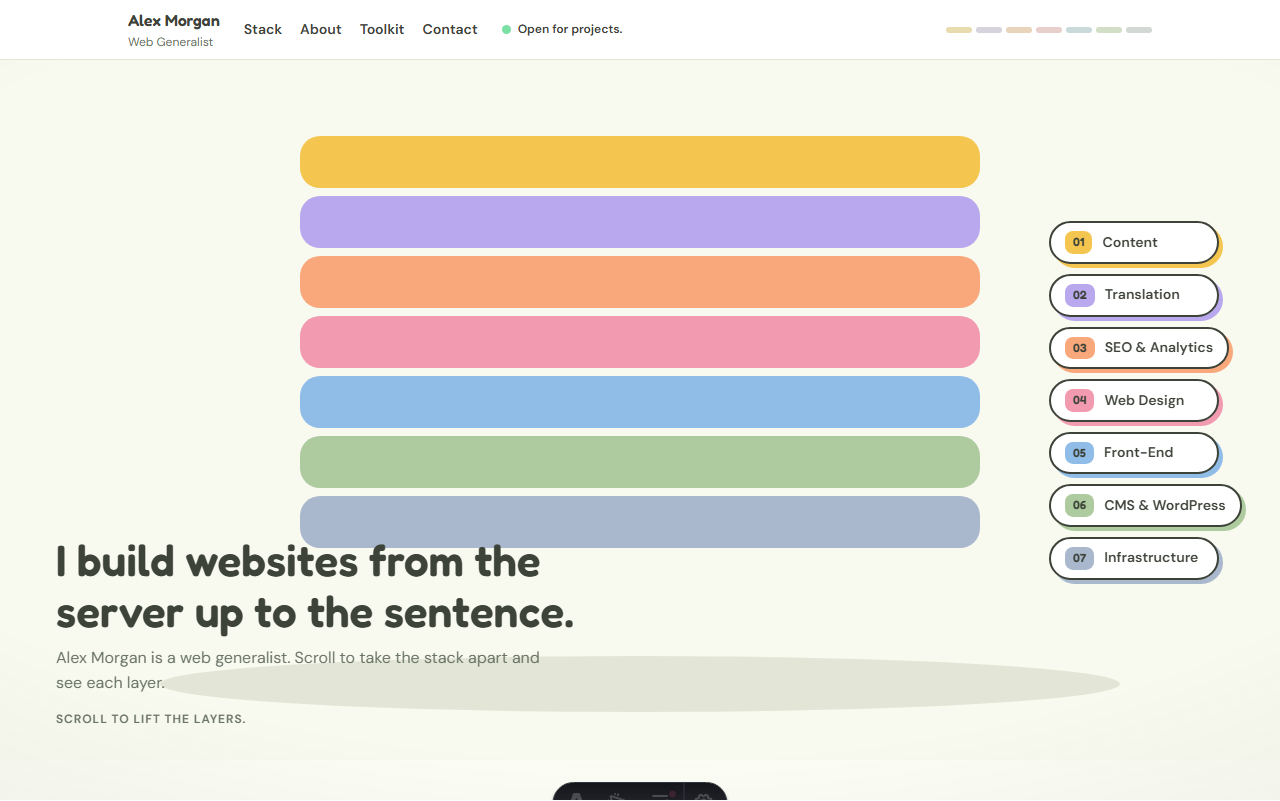
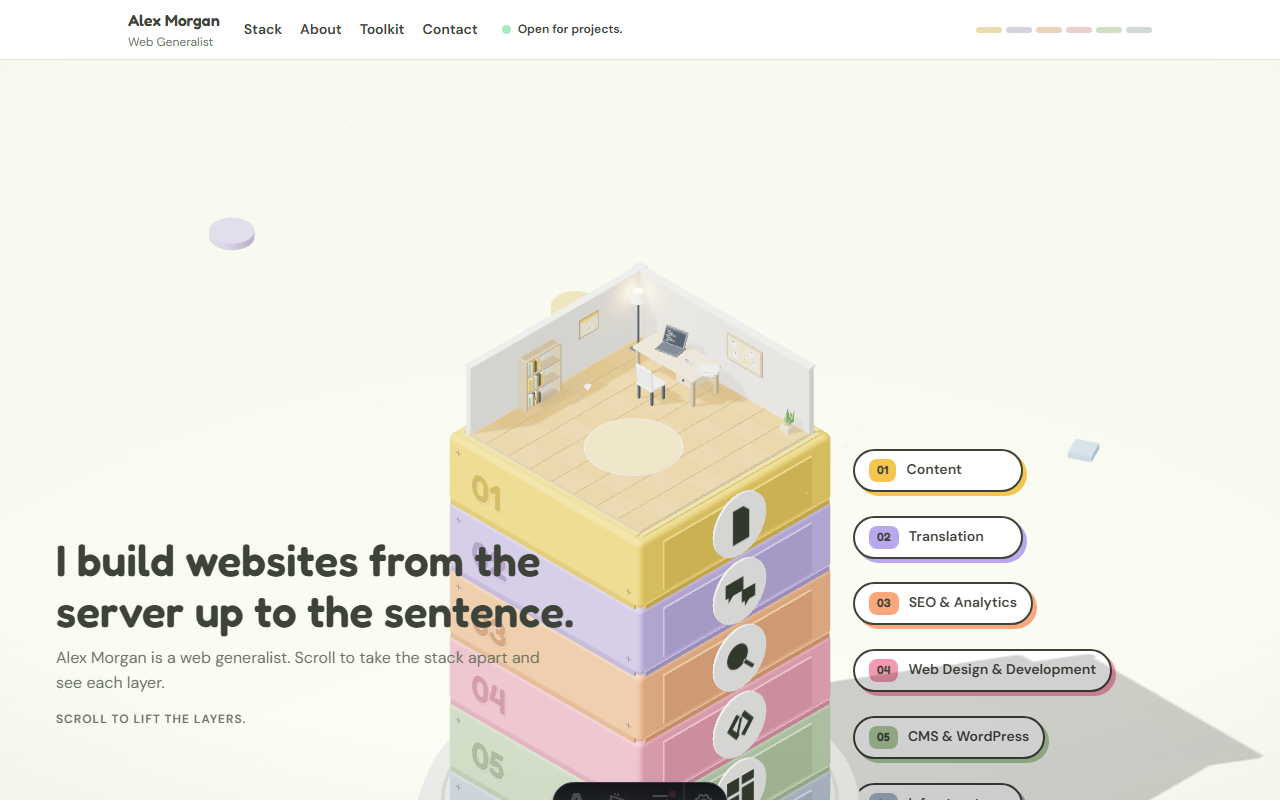
T16: complete six-layer migration (redirects, derived verify-stack, poster)

diff --git a/src/scene/stack/stack.ts b/src/scene/stack/stack.ts
@@ -1,4 +1,4 @@
-/** @module scene/stack/stack: builds the seven-slab column from config in locked order. @see src/scene/stack/slab.ts, src/scene/rooms/index.ts, docs/MOTION.md (State) */
+/** @module scene/stack/stack: builds the six-slab column from config in locked order. @see src/scene/stack/slab.ts, src/scene/rooms/index.ts, docs/MOTION.md (State) */
 import * as THREE from 'three';
 import { SLAB_T, FOOTPRINT, WALL_H } from '@/config/tuning';
 import { LAYERS } from '@/config/layers';

diff --git a/src/config/layers.ts b/src/config/layers.ts
@@ -1,4 +1,4 @@
-/** @module config/layers: the seven layer configs in locked top-to-bottom order. @see docs/COPY.md, src/config/types.ts */
+/** @module config/layers: the six layer configs in locked top-to-bottom order. @see docs/COPY.md, src/config/types.ts */
 import type { LayerConfig } from './types';
 
 // The order lives only here (locked decision): content, translation, seo,

diff --git a/src/content/en.ts b/src/content/en.ts
@@ -48,7 +48,7 @@ export const en = {
     close: 'Close',
   },
   footer: {
-    note: 'Built as one page and seven layers.',
+    note: 'Built as one page and six layers.',
   },
 } as const;
 

diff --git a/docs/MAP.md b/docs/MAP.md
@@ -6,7 +6,7 @@ Search this file before creating anything.
 - main.ts: main: page entry; boots the scene, then wires the UI layer to it. @see src/scene/boot.ts, src/ui/preview.ts, src/ui/detail.ts, src/ui/keyboard.ts
 
 ## src/config/
-- layers.ts: config/layers: the seven layer configs in locked top-to-bottom order. @see docs/COPY.md, src/config/types.ts
+- layers.ts: config/layers: the six layer configs in locked top-to-bottom order. @see docs/COPY.md, src/config/types.ts
   exports: LAYERS
   uses: src/config/types
 - palette.ts: config/palette: the only place hex colors may live, plus lighten/darken. @see docs/DESIGN.md, src/config/types.ts
@@ -239,7 +239,7 @@ Search this file before creating anything.
 - slab.ts: scene/stack/slab: builds one chunky slab per LayerConfig. @see docs/DESIGN.md (Slab), src/scene/stack/stack.ts, src/scene/stack/icons.ts
   exports: makeSlab
   uses: src/config/tuning, src/config/palette, src/config/types, src/scene/stack/icons
-- stack.ts: scene/stack/stack: builds the seven-slab column from config in locked order. @see src/scene/stack/slab.ts, src/scene/rooms/index.ts, docs/MOTION.md (State)
+- stack.ts: scene/stack/stack: builds the six-slab column from config in locked order. @see src/scene/stack/slab.ts, src/scene/rooms/index.ts, docs/MOTION.md (State)
   exports: restY, Stack, createStack
   uses: src/config/tuning, src/config/layers, src/scene/stack/slab, src/scene/rooms/index, src/scene/rooms/shell, src/scene/rooms/props/index, src/config/types
 - state.ts: scene/stack/state: scroll-derived step, the u and e arrays, the invariant, window.__stack. @see docs/MOTION.md (Scroll mapping, State, Debug), src/scene/stack/motion.ts
@@ -247,7 +247,7 @@ Search this file before creating anything.
   uses: src/config/tuning, src/config/layers
 
 ## src/sections/
-- About.astro: sections/About: statement, seven-layer diagram, three color panels. @see docs/DESIGN.md (Sections), src/styles/sections.css
+- About.astro: sections/About: statement, six-layer diagram, three color panels. @see docs/DESIGN.md (Sections), src/styles/sections.css
   uses: src/config/layers, src/lib/i18n
 - Contact.astro: sections/Contact: end-of-level panel with heading, mailto, socials, availability. @see docs/COPY.md, src/config/site.ts
   uses: src/config/site, src/lib/i18n
@@ -257,7 +257,7 @@ Search this file before creating anything.
   uses: src/config/layers, src/lib/i18n
 - Hud.astro: sections/Hud: sticky header with name, role, nav links, availability, progress bar. @see src/styles/hud.css, docs/DESIGN.md (HUD and UI style)
   uses: src/config/site, src/config/layers, src/lib/i18n, src/lib/bus
-- Toolkit.astro: sections/Toolkit: seven tiles, one per layer, with tool chips. @see docs/DESIGN.md (Sections), src/config/layers.ts
+- Toolkit.astro: sections/Toolkit: six tiles, one per layer, with tool chips. @see docs/DESIGN.md (Sections), src/config/layers.ts
   uses: src/config/layers, src/lib/i18n
 
 ## src/ui/
